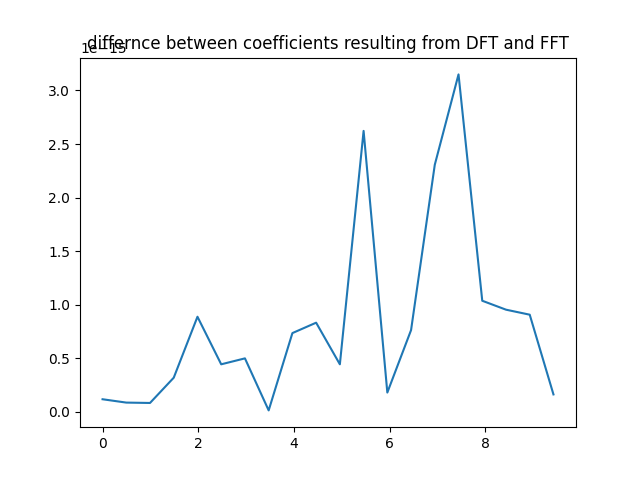
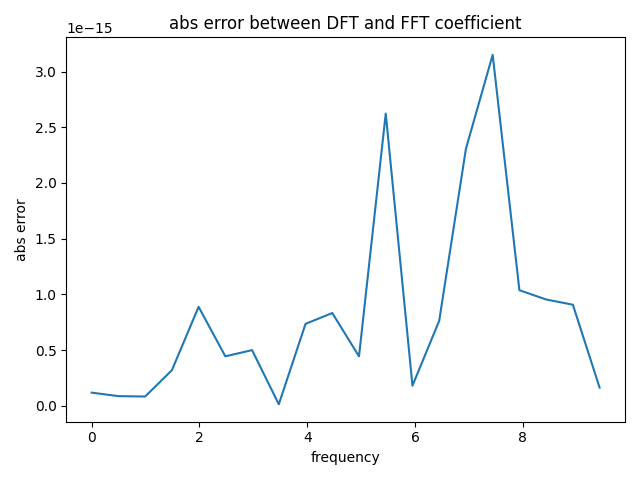
dft_fft_time

diff --git a/fft_dft_computational_time.py b/fft_dft_computational_time.py
@@ -50,8 +50,6 @@ plt.title('4sin(2x) - 1.5cos(5x) + 0.3sin(0.5x) + 0.4cos(2x)')
 plt.show()
 
 
-
-
 ''' show the FFT is O(NlogN) and DFT is O(N^2) '''
 
 # pmax is the max power of 2 (2^pmax)
@@ -85,6 +83,7 @@ plt.legend()
 plt.title('Time it takes DFT and FFT for different powers of 2^p')
 plt.xlabel('p')
 plt.ylabel('time (s)')
+plt.tight_layout()
 plt.savefig('dft_fft_time')
 plt.show()
 
@@ -94,18 +93,22 @@ n = np.linspace(2**3,2**pmax,1000)
 n2 = n**2
 nlogn = n*np.log2(n)
 
-fig,ax = plt.subplots(1,2,figsize=(8,11))
+fig,ax = plt.subplots(1,2)
 
 ax[0].plot(xtime,Dtime, label='DFT Time')
 ax[0].plot(xtime,Ftime, label='FFT Time')
+ax[0].set_xlabel('2^p')
+ax[0].set_ylabel('time (s)')
 ax[0].legend()
-ax[0].set_title('O(DFT) vs O(FFT)')
+ax[0].set_title('DFT vs FFT computational time')
 
 ax[1].plot(n,n2, label='O(N^2)')
 ax[1].plot(n,nlogn, label = 'O(NlogN)')
+ax[1].set_xlabel('N')
 ax[1].legend()
 ax[1].set_title('O(N^2) vs O(NlogN)')
 
+plt.tight_layout()
 plt.savefig('ON2_ONlogN')
 plt.show()
 
@@ -143,16 +146,23 @@ fig,bx = plt.subplots(1,2)
 
 bx[0].stem(freqs[:20], ampsD[:20], label='Average amplitudes')
 bx[0].set_title('DFT amplitudes')
+bx[0].set_xlabel('frequency')
+bx[0].set_ylabel('amplitude')
 
 bx[1].stem(freqs[:20], ampsF[:20], label='Average amplitudes')
 bx[1].set_title('FFT amplitudes')
+bx[1].set_xlabel('frequency')
 
+plt.tight_layout()
 plt.savefig('dft_vs_fft')
 plt.show()
 
 
 #plot the error between DFT and FFT
 plt.plot(freqs[:20],abs(ampsD[:20] - ampsF[:20]))
-plt.title('differnce between coefficients resulting from DFT and FFT')
+plt.title('abs error between DFT and FFT coefficient')
+plt.xlabel('frequency')
+plt.ylabel('abs error')
+plt.tight_layout()
 plt.savefig('dft_fft_errors')
 plt.show()
